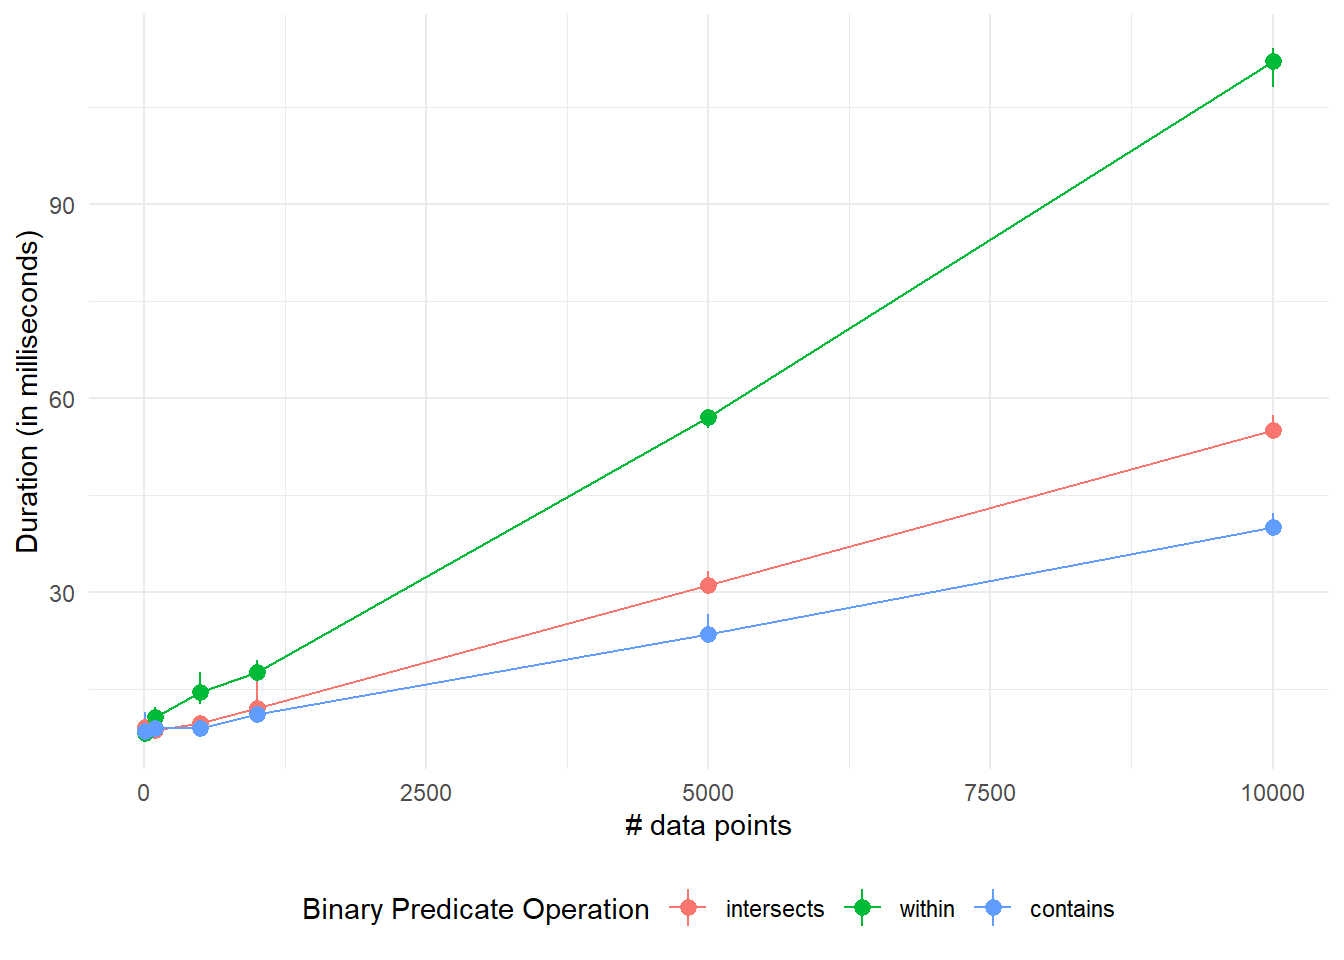
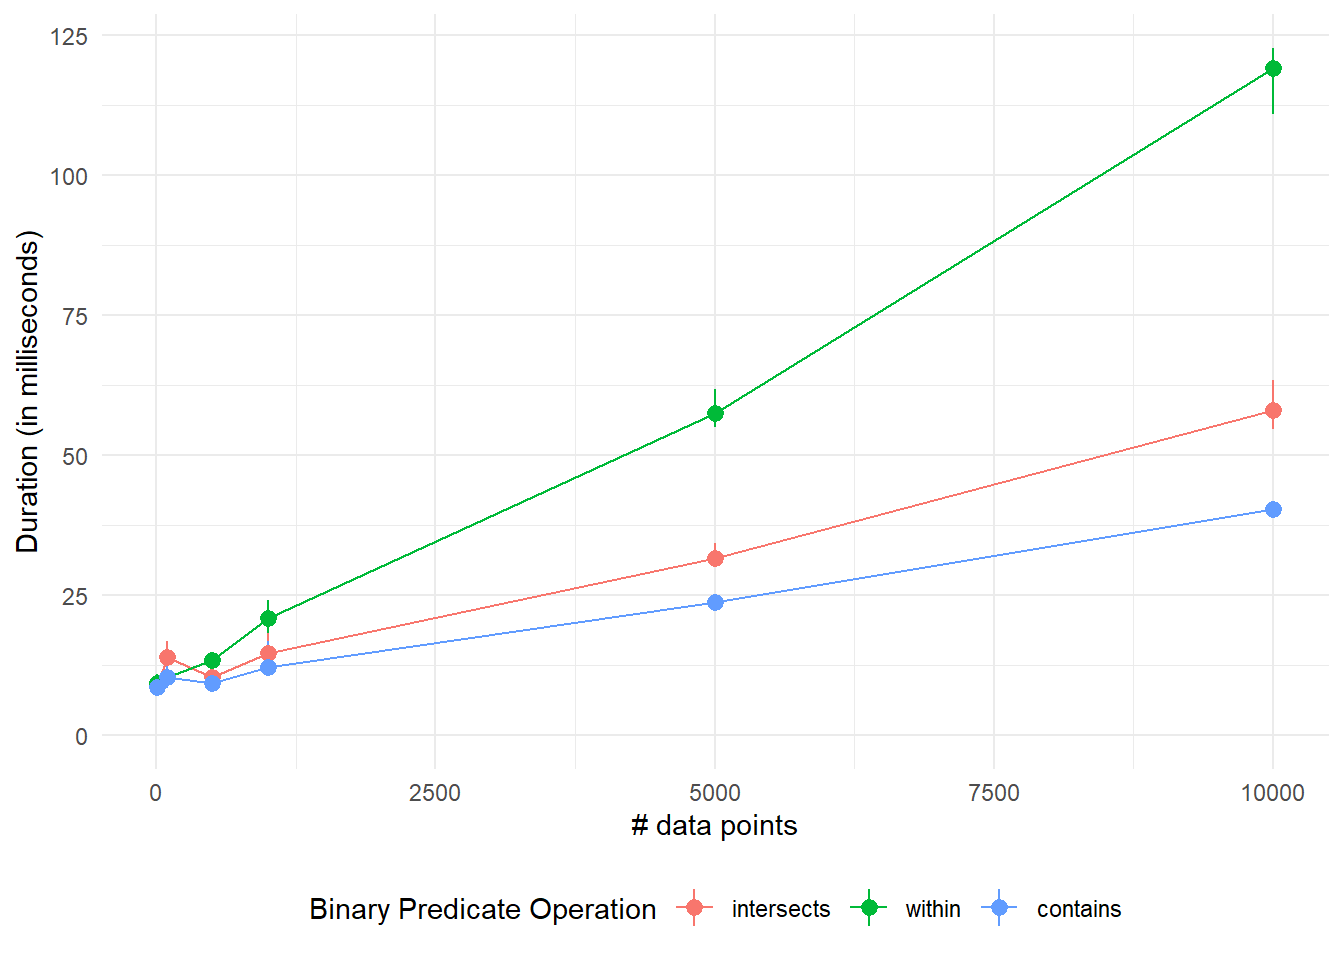
more stuff

diff --git a/content/post/2019_05_19_benchmarking_binary_predicates.html b/content/post/2019_05_19_benchmarking_binary_predicates.html
@@ -45,6 +45,7 @@ plot(monte_generoso); plot(points_filter3, add = TRUE)</code></pre>
 
 mbm$time &lt;- microbenchmark:::convert_to_unit(mbm$time,&quot;t&quot;)
 
+# this could have also been done with autoplot(), but I don&#39;t like automated plottnig functions.
 ggplot(mbm, aes(expr,time,fill = expr)) +
   ggplot2::geom_violin() +
   coord_flip() +
@@ -53,7 +54,6 @@ ggplot(mbm, aes(expr,time,fill = expr)) +
   labs(x = &quot;Function&quot;,y = paste0(&quot;Duration (in &quot;,attr(mbm$time,&quot;unit&quot;),&quot;)&quot;)) +
   theme(legend.position = &quot;none&quot;)</code></pre>
 <p><img src="/post/2019_05_19_benchmarking_binary_predicates_files/figure-html/unnamed-chunk-3-1.png" width="672" /></p>
-<pre class="r"><code># this could have also been done with autoplot(), but I don&#39;t like automated plottnig functions.</code></pre>
 <p>What we can see in the plot above, is that <code>st_within</code> sometimes took nearly 50ms, but usually around 18ms. This is still slower than both <code>st_contains</code> (around 11ms) and <code>st_within</code> (around 12ms). The question now is, how do the functions scale? Some functions are better on larger datasets than on smaller ones. So I’ll test this by raising the number of points in <code>point</code>.</p>
 <pre class="r"><code>mbm2 &lt;- map_dfr(c(10,100,500,1000,5000,10000),function(n_points){
   
@@ -82,6 +82,7 @@ ggplot(aes(n,median, colour = expr)) +
   geom_line() +
   geom_pointrange(aes(ymin = q25,ymax = q75)) +
   labs(x = &quot;# data points&quot;,y = paste0(&quot;Duration (in &quot;,attr(mbm2$time,&quot;unit&quot;),&quot;)&quot;), colour = &quot;Binary Predicate Operation&quot;) +
+  expand_limits(y = 0) +
   theme_minimal() +
   theme(legend.position = &quot;bottom&quot;) </code></pre>
 <p><img src="/post/2019_05_19_benchmarking_binary_predicates_files/figure-html/unnamed-chunk-5-1.png" width="672" /></p>
@@ -116,11 +117,15 @@ ggplot(aes(n,median, colour = expr)) +
   geom_line() +
   geom_pointrange(aes(ymin = q25,ymax = q75)) +
   labs(x = &quot;# data circles&quot;,y = paste0(&quot;Duration (in &quot;,attr(mbm3$time,&quot;unit&quot;),&quot;)&quot;), colour = &quot;Binary Predicate Operation&quot;) +
+  expand_limits(y = 0) +
   theme_minimal() +
   theme(legend.position = &quot;bottom&quot;) </code></pre>
 <p><img src="/post/2019_05_19_benchmarking_binary_predicates_files/figure-html/unnamed-chunk-6-1.png" width="672" /></p>
-<p>Nope.. still too slow by a long way.</p>
-<p>[<a href="https://media1.giphy.com/media/bMdZu3fG2ZEBO/giphy.gif" class="uri">https://media1.giphy.com/media/bMdZu3fG2ZEBO/giphy.gif</a>]</p>
+<p>Nope.. still too slow by a long way. Unexpected for me however, is the fact that the number of polygons does not slow the process. Take home message: use <code>st_contains</code> when you can.</p>
+<div class="figure">
+<img src="too_slow.gif" alt="too slow" />
+<p class="caption">too slow</p>
+</div>
 <pre class="r"><code>sessionInfo()</code></pre>
 <pre><code>## R version 3.6.0 (2019-04-26)
 ## Platform: x86_64-w64-mingw32/x64 (64-bit)
